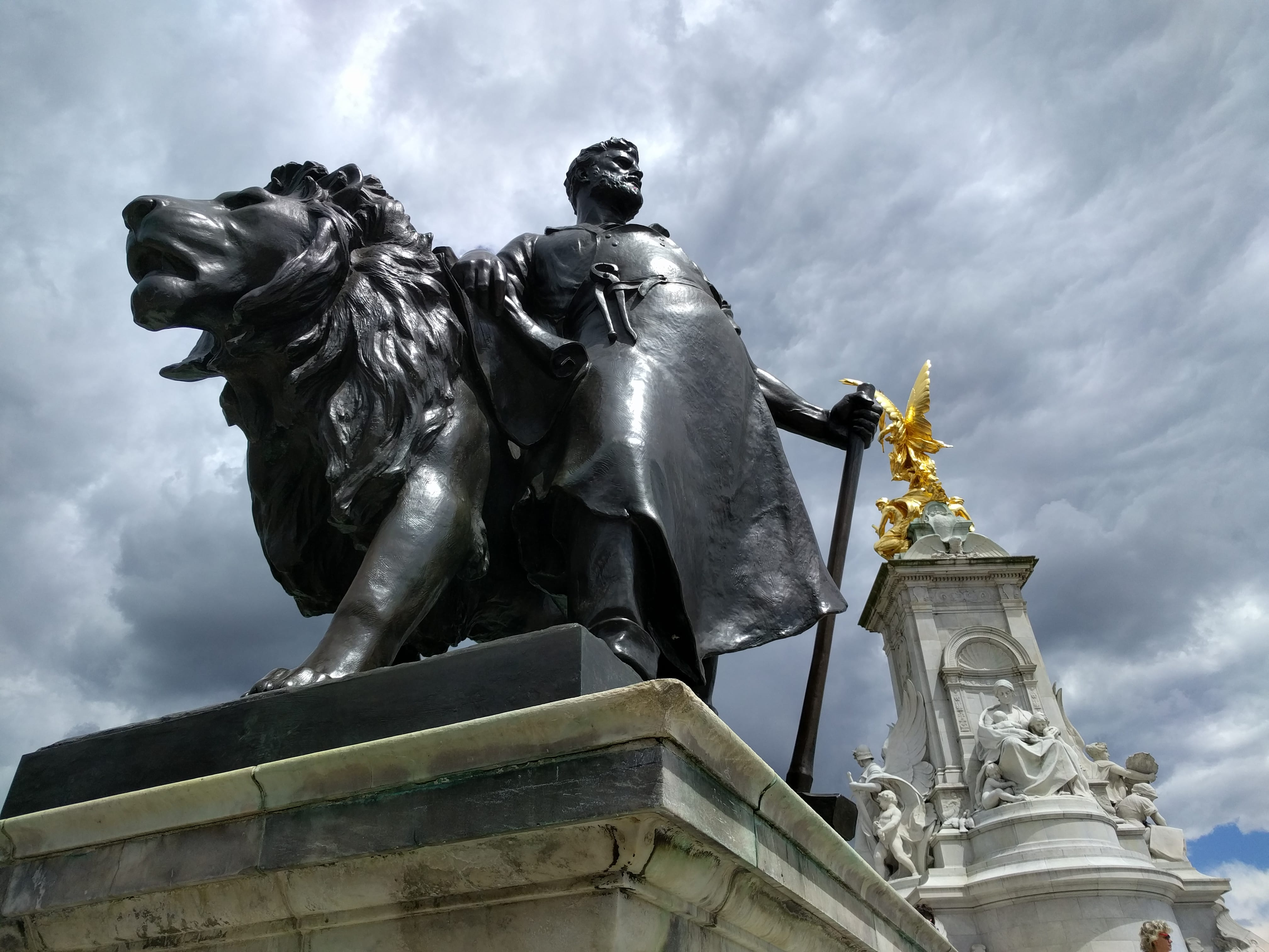
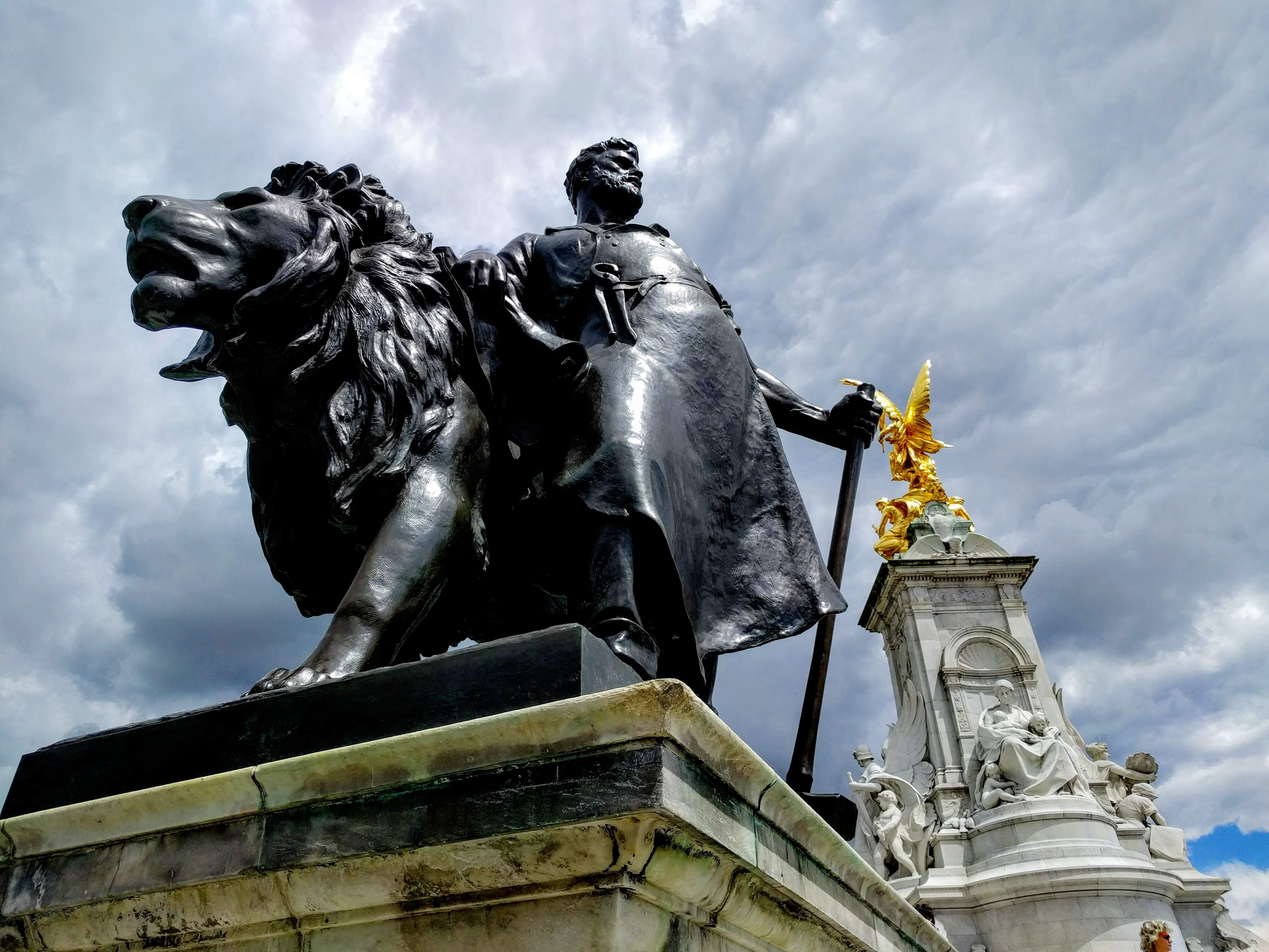
Add files via upload

diff --git a/london.html b/london.html
@@ -159,21 +159,27 @@
 								</section>
 								<section>
 									<h2>Get in touch</h2>
-									<form method="post" action="#">
+									<form id="contactform" action="//formspree.io/elias.bacarro@gmail.com" method="POST">
 										<div class="field half first">
-											<input type="text" name="name" id="name" placeholder="Name" />
-										</div>
-										<div class="field half">
-											<input type="text" name="email" id="email" placeholder="Email" />
-										</div>
+										<input type="text" name="Name" id="name" value="" placeholder="Name" required>
+									</div>
+									<div class="field half">
+										<input type="text" name="Email" id="email" value="" placeholder="Email" required>
+									</div>
 										<div class="field">
 											<textarea name="message" id="message" rows="4" placeholder="Message"></textarea>
 										</div>
+										<input type="hidden" name="_subject" value="Website contact" />
+										<input type="text" name="_gotcha" style="display:none" />
 										<ul class="actions">
-											<li><input type="submit" value="Send" class="special" /></li>
-											<li><input type="reset" value="Reset" /></li>
-										</ul>
+										<li><input type="submit" name="" onclick="alert('Thanks for reaching out. More photos, more words, more stories. Hopefully, wherever you are next.')"  value="Send" class="special" /></li>
+										<li><input type="reset" value="Reset" /></li>
+									</ul>
 									</form>
+									<script>
+										var contactform =  document.getElementById('contactform');
+											contactform.setAttribute('action', '//formspree.io/' + 'abacarro' + '@' + 'jadeabl' + '.' + 'com');
+									</script>
 								</section>
 								<section>
 									<h2>Follow me on ...</h2>
@@ -184,6 +190,10 @@
 										<li><a href="https://ca.linkedin.com/in/eliasbacarro" class="icon fa-linkedin"><span class="label">LinkedIn</span></a></li>
 									</ul>
 								</section>
+								<p class="copyright">
+								Taken with the 12.3MP Shooter on my Nexus 6P.
+								<br />Edited with Google Photos, Photoshop, and Lightroom.
+								</p>
 							</div>
 						</div>
 					</footer>

diff --git a/index.html b/index.html
@@ -155,21 +155,27 @@
 								</section>
 								<section>
 									<h2>Get in touch</h2>
-									<form method="post" action="#">
+									<form id="contactform" action="//formspree.io/elias.bacarro@gmail.com" method="POST">
 										<div class="field half first">
-											<input type="text" name="name" id="name" placeholder="Name" />
-										</div>
-										<div class="field half">
-											<input type="text" name="email" id="email" placeholder="Email" />
-										</div>
+										<input type="text" name="Name" id="name" value="" placeholder="Name" required>
+									</div>
+									<div class="field half">
+										<input type="text" name="Email" id="email" value="" placeholder="Email" required>
+									</div>
 										<div class="field">
 											<textarea name="message" id="message" rows="4" placeholder="Message"></textarea>
 										</div>
+										<input type="hidden" name="_subject" value="Website contact" />
+										<input type="text" name="_gotcha" style="display:none" />
 										<ul class="actions">
-											<li><input type="submit" value="Send" class="special" /></li>
-											<li><input type="reset" value="Reset" /></li>
-										</ul>
+										<li><input type="submit" name="" onclick="alert('Thanks for reaching out. More photos, more words, more stories. Hopefully, wherever you are next.')"  value="Send" class="special" /></li>
+										<li><input type="reset" value="Reset" /></li>
+									</ul>
 									</form>
+									<script>
+										var contactform =  document.getElementById('contactform');
+											contactform.setAttribute('action', '//formspree.io/' + 'abacarro' + '@' + 'jadeabl' + '.' + 'com');
+									</script>
 								</section>
 								<section>
 									<h2>Follow me on ...</h2>
@@ -181,7 +187,8 @@
 									</ul>
 								</section>
 								<p class="copyright">
-								Taken with the 12.3MP Shooter on my Nexus 6P, without any filters, crops, or editing of any kind.
+								Taken with the 12.3MP Shooter on my Nexus 6P.
+								<br />Edited with Google Photos, Photoshop and Lightroom.
 								</p>
 							</div>
 						</div>
